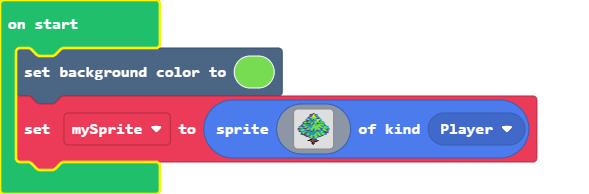
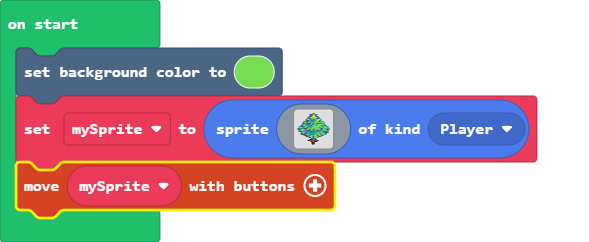
Update main.blocks, main.ts

diff --git a/main.ts b/main.ts
@@ -33,3 +33,4 @@ let mySprite = sprites.create(img`
     ..............fef...............
     ...............f................
     `, SpriteKind.Player)
+controller.moveSprite(mySprite)
